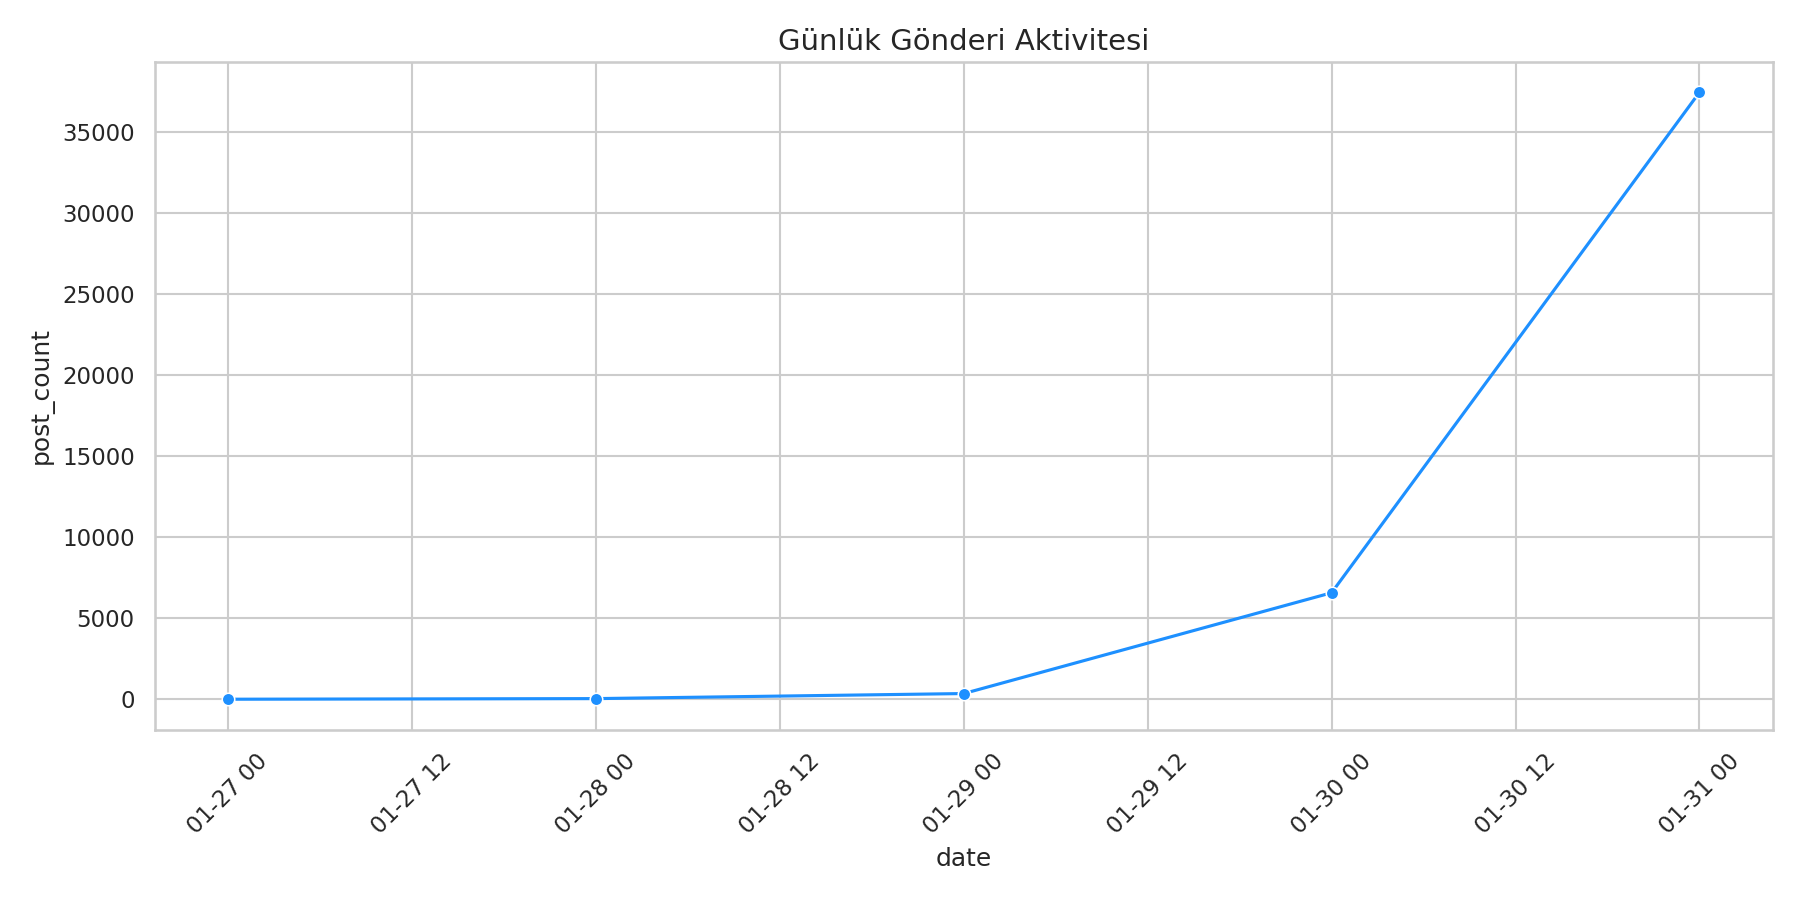
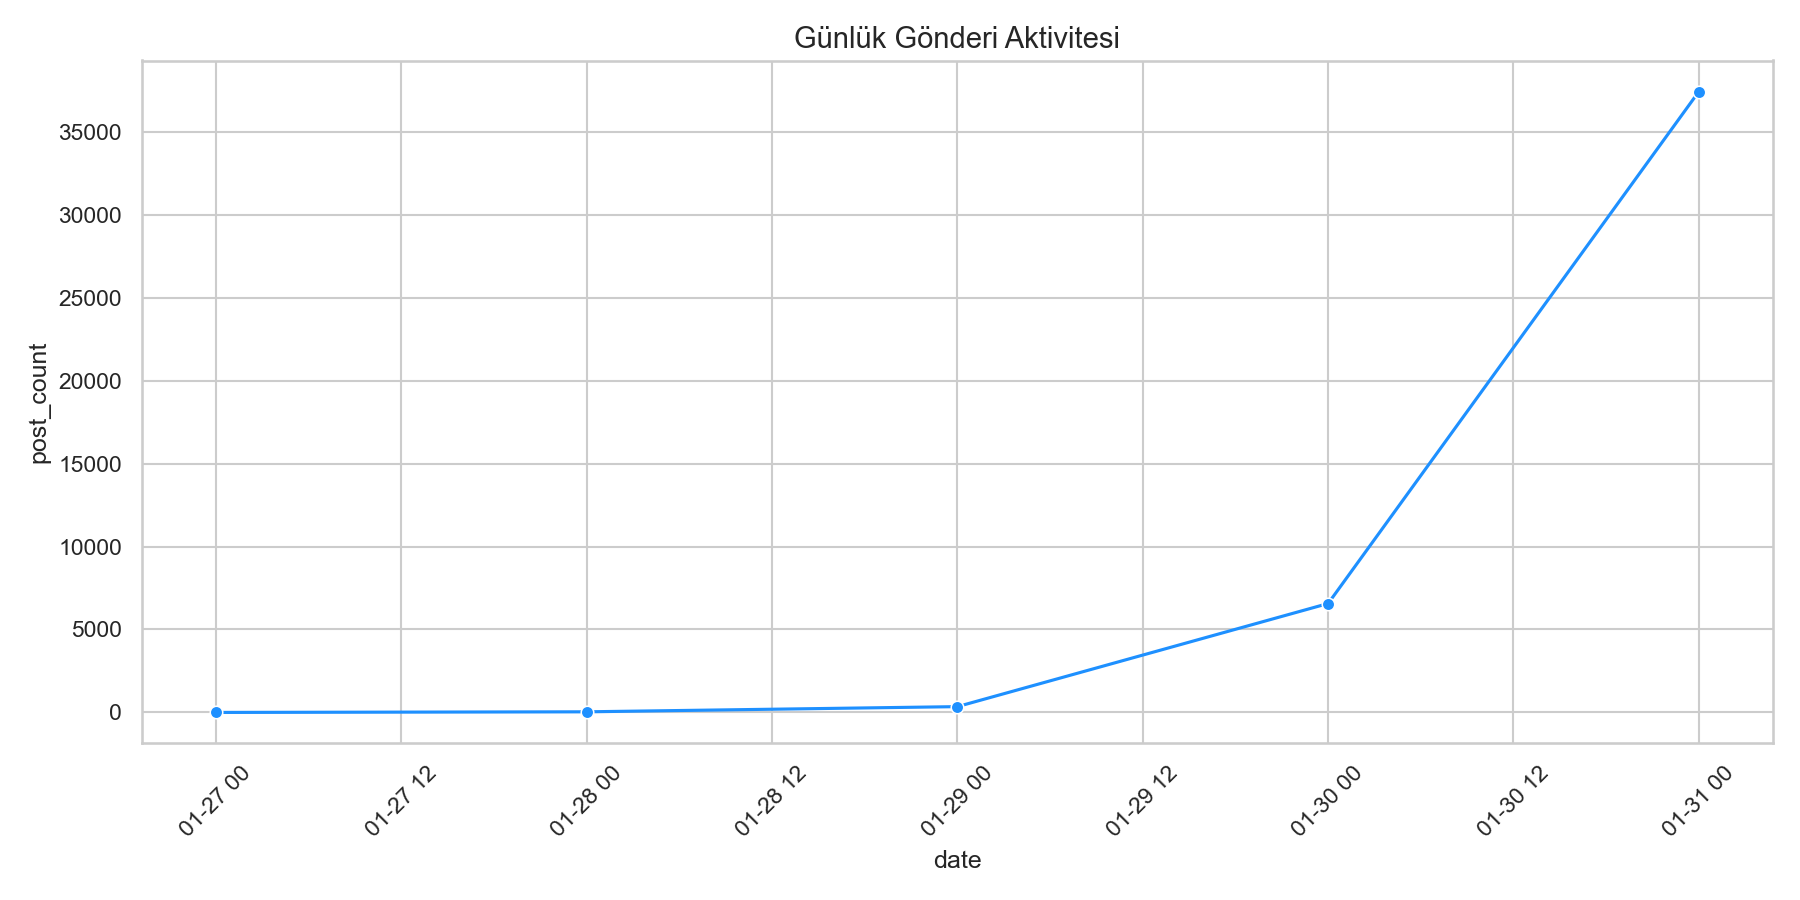
feat: finalize unified analysis pipeline, English localizations, and licensing (Sprint 5-7)

diff --git a/run_all.py b/run_all.py
@@ -1,0 +1,221 @@
+# Copyright (c) 2026 Sinem Turkoglu - MIT License
+# # ==========================================
+# Project: Moltbook Analysis Pipeline (Final Publication Standard)
+# Author: Sinem Türkoğlu
+# Description: Unified analysis pipeline with English visualizations for academic publication.
+# ==========================================
+
+import pandas as pd
+import numpy as np
+import matplotlib.pyplot as plt
+import seaborn as sns
+from sklearn.preprocessing import StandardScaler
+from sklearn.cluster import KMeans
+from sklearn.decomposition import PCA
+from prophet import Prophet
+import logging
+import os
+from clean_pipeline import clean_and_integrate_pipeline
+
+# Configure logging
+logging.basicConfig(level=logging.INFO, format='%(levelname)s: %(message)s')
+
+# Constants
+CLEANED_DATA_PATH = 'moltbook_final_v4.csv'
+RAW_DATA_PATH = 'moltbook_temiz.csv'
+FINAL_DATA_PATH = 'moltbook_temiz_final.csv'
+PLOTS_DIR = 'plots'
+DPI = 300
+
+# Topic Mapping (English for Publication)
+TOPIC_MAPPING = {
+    'A': 'A (General Discussion)', 'B': 'B (Politics)', 'C': 'C (Economy)',
+    'D': 'D (Technology)', 'E': 'E (Sports)', 'F': 'F (Culture & Arts)',
+    'G': 'G (Health & Lifestyle)', 'H': 'H (Education & Science)', 'I': 'I (Other)'
+}
+
+def setup_environment():
+    """Ensures directories and styles are set."""
+    if not os.path.exists(PLOTS_DIR):
+        os.makedirs(PLOTS_DIR)
+    plt.style.use('fivethirtyeight')
+    sns.set_theme(style="whitegrid")
+
+def run_cleaning_pipeline():
+    """Runs the H5 cleaning and integration pipeline."""
+    logging.info("--- Stage 1: Data Cleaning & Integration ---")
+    clean_and_integrate_pipeline(CLEANED_DATA_PATH, RAW_DATA_PATH, FINAL_DATA_PATH)
+
+def perform_general_analysis(df):
+    """
+    Performs basic descriptive analysis and saves plots in English.
+    
+    Args:
+        df (pd.DataFrame): Cleaned and integrated dataframe.
+    """
+    logging.info("--- Stage 2: General Analysis ---")
+    
+    df['topic_display'] = df['topic_label'].map(TOPIC_MAPPING).fillna(df['topic_label'])
+    df['date'] = pd.to_datetime(df['timestamp']).dt.date
+
+    # 1. Daily Activity
+    plt.figure(figsize=(12, 6))
+    daily_counts = df.groupby('date').size().reset_index(name='post_count')
+    sns.lineplot(data=daily_counts, x='date', y='post_count', marker='o', color='dodgerblue')
+    plt.title('Daily Post Activity', fontsize=16)
+    plt.xlabel('Date')
+    plt.ylabel('Post Count')
+    plt.xticks(rotation=45)
+    plt.tight_layout()
+    plt.savefig(f'{PLOTS_DIR}/01_daily_activity.png', dpi=DPI)
+    plt.close()
+
+    # 2. Topic Distribution
+    plt.figure(figsize=(12, 6))
+    topic_counts = df['topic_display'].value_counts().reset_index()
+    topic_counts.columns = ['topic_display', 'count']
+    sns.barplot(data=topic_counts, x='topic_display', y='count', hue='topic_display', palette='viridis', legend=False)
+    plt.title('Topic Distribution', fontsize=16)
+    plt.xlabel('Topic')
+    plt.ylabel('Post Count')
+    plt.xticks(rotation=45)
+    plt.tight_layout()
+    plt.savefig(f'{PLOTS_DIR}/02_topic_distribution.png', dpi=DPI)
+    plt.close()
+
+    # 3. Toxicity Distribution
+    plt.figure(figsize=(8, 5))
+    toxic_counts = df['toxic_level'].value_counts().sort_index().reset_index()
+    toxic_counts.columns = ['toxic_level', 'count']
+    sns.barplot(data=toxic_counts, x='toxic_level', y='count', hue='toxic_level', palette='Reds', legend=False)
+    plt.title('Toxicity Level Distribution', fontsize=16)
+    plt.xlabel('Toxicity Level')
+    plt.ylabel('Post Count')
+    plt.tight_layout()
+    plt.savefig(f'{PLOTS_DIR}/03_toxicity_distribution.png', dpi=DPI)
+    plt.close()
+
+def perform_clustering(df, n_clusters=4):
+    """
+    Performs feature engineering and KMeans clustering.
+    
+    Args:
+        df (pd.DataFrame): Dataframe.
+        n_clusters (int): Number of clusters.
+    """
+    logging.info("--- Stage 3: Clustering ---")
+    
+    # Feature Engineering
+    df['text_len'] = df['content_body'].fillna('').apply(len)
+    df['word_count'] = df['content_body'].fillna('').apply(lambda x: len(x.split()))
+    df['special_char_count'] = df['content_body'].fillna('').apply(lambda x: sum(not c.isalnum() for c in x))
+    df['is_code'] = df['content_body'].fillna('').apply(lambda x: 1 if '```' in x else 0)
+    
+    # Topic Encoding
+    df['topic_encoded'] = pd.factorize(df['topic_label'])[0]
+    
+    features = ['toxic_level', 'upvotes_count', 'topic_encoded', 'text_len', 'word_count', 'special_char_count', 'is_code']
+    X = df[features].fillna(0)
+    
+    scaler = StandardScaler()
+    X_scaled = scaler.fit_transform(X)
+    
+    kmeans = KMeans(n_clusters=n_clusters, random_state=42, n_init=10)
+    df['cluster'] = kmeans.fit_predict(X_scaled)
+    
+    # Visualization with PCA
+    pca = PCA(n_components=2)
+    X_pca = pca.fit_transform(X_scaled)
+    
+    plt.figure(figsize=(10, 7))
+    sns.scatterplot(x=X_pca[:, 0], y=X_pca[:, 1], hue=df['cluster'], palette='Set1', s=60, alpha=0.6)
+    plt.title('Post Clusters (PCA Visualization)', fontsize=16)
+    plt.legend(title='Cluster')
+    plt.xlabel('PCA Component 1')
+    plt.ylabel('PCA Component 2')
+    plt.tight_layout()
+    plt.savefig(f'{PLOTS_DIR}/04_clustering_pca.png', dpi=DPI)
+    plt.close()
+    
+    # Feature distribution by cluster
+    cluster_means = df.groupby('cluster')[features].mean()
+    logging.info(f"Cluster Means:\n{cluster_means}")
+    
+    return df
+
+def perform_forecasting(df):
+    """
+    Performs 30-day activity and toxicity forecasting using Prophet.
+    
+    Args:
+        df (pd.DataFrame): Dataframe with 'timestamp' and 'toxic_level'.
+    """
+    logging.info("--- Stage 4: Time-Series Forecasting ---")
+    
+    # 1. Activity Forecast
+    df_prophet = df.set_index(pd.to_datetime(df['timestamp'])).resample('D').size().reset_index(name='y')
+    df_prophet.columns = ['ds', 'y']
+    df_prophet['ds'] = df_prophet['ds'].dt.tz_localize(None)
+    
+    m_activity = Prophet(weekly_seasonality=True, daily_seasonality=False)
+    m_activity.fit(df_prophet)
+    
+    future_activity = m_activity.make_future_dataframe(periods=30)
+    forecast_activity = m_activity.predict(future_activity)
+    
+    fig1 = m_activity.plot(forecast_activity)
+    plt.title('30-Day Activity Forecast', fontsize=16)
+    plt.xlabel('Date')
+    plt.ylabel('Post Count')
+    plt.tight_layout()
+    plt.savefig(f'{PLOTS_DIR}/05_activity_forecast.png', dpi=DPI)
+    plt.close()
+
+    # 2. Toxicity Forecast
+    df_toxic = df.set_index(pd.to_datetime(df['timestamp'])).resample('D')['toxic_level'].mean().reset_index()
+    df_toxic.columns = ['ds', 'y']
+    df_toxic['ds'] = df_toxic['ds'].dt.tz_localize(None)
+    
+    m_toxic = Prophet(weekly_seasonality=True, daily_seasonality=False)
+    m_toxic.fit(df_toxic)
+    
+    future_toxic = m_toxic.make_future_dataframe(periods=30)
+    forecast_toxic = m_toxic.predict(future_toxic)
+    
+    fig2 = m_toxic.plot(forecast_toxic)
+    plt.title('30-Day Toxicity Trend Forecast', fontsize=16)
+    plt.xlabel('Date')
+    plt.ylabel('Average Toxicity Level')
+    plt.tight_layout()
+    plt.savefig(f'{PLOTS_DIR}/06_toxicity_forecast.png', dpi=DPI)
+    plt.close()
+
+def main():
+    """Main execution flow."""
+    setup_environment()
+    
+    # 1. Cleaning
+    run_cleaning_pipeline()
+    
+    # Load the fresh data
+    if not os.path.exists(FINAL_DATA_PATH):
+        logging.error("Final dataset could not be created!")
+        return
+        
+    df = pd.read_csv(FINAL_DATA_PATH)
+    
+    # 2. General Analysis
+    perform_general_analysis(df)
+    
+    # 3. Clustering
+    df = perform_clustering(df)
+    
+    # 4. Forecasting
+    perform_forecasting(df)
+    
+    logging.info("--- ALL PROCESSES COMPLETED SUCCESSFULLY ---")
+    logging.info(f"Plots saved to '{PLOTS_DIR}/' directory with 300 DPI resolution.")
+
+if __name__ == "__main__":
+    main()
+

diff --git a/clean_pipeline.py b/clean_pipeline.py
@@ -1,0 +1,76 @@
+# Copyright (c) 2026 Sinem Turkoglu - MIT License
+# # ==========================================
+# Project: Moltbook Data Pipeline (Final Optimized)
+# Author: Sinem Türkoğlu
+# Description: Metadata integration and timestamp cleaning for Prophet.
+# ==========================================
+
+import pandas as pd
+import ast
+import logging
+
+# İşlem takibi için loglama
+logging.basicConfig(level=logging.INFO, format='%(levelname)s: %(message)s')
+
+def extract_timestamp(post_content):
+    """
+    Metadata içerisinden zaman damgasını ayıklar.
+    
+    Args:
+        post_content (str): Ham veri içerisindeki JSON formatlı post sütunu.
+        
+    Returns:
+        str: Ayıklanan created_at bilgisi veya hata durumunda None.
+    """
+    try:
+        # String formatındaki sözlüğü Python sözlüğüne çevirir
+        return ast.literal_eval(post_content).get('created_at')
+    except Exception:
+        return None
+
+def clean_and_integrate_pipeline(cleaned_path, raw_path, output_path):
+    """
+    Veri temizleme ve zaman serisi entegrasyon hattını çalıştırır. 
+    H5 gereksinimlerini karşılamak üzere tasarlanmıştır.
+    
+    Args:
+        cleaned_path (str): Etiketlenmiş/Temizlenmiş ana veri seti yolu.
+        raw_path (str): Ham metadata içeren veri seti yolu.
+        output_path (str): İşlenmiş final veri setinin kaydedileceği yol.
+    """
+    logging.info("Sistem: Zaman hassasiyetli veri işleme hattı başlatıldı...")
+
+    try:
+        # 1. Veri Okuma
+        df_cleaned = pd.read_csv(cleaned_path)
+        df_raw = pd.read_csv(raw_path)
+
+        # 2. ID Normalizasyonu (H2 - Eşleşme sorunlarını önlemek için)
+        for df in [df_cleaned, df_raw]:
+            df['id'] = df['id'].astype(str).str.lower().str.strip()
+
+        # 3. Zaman Damgası Ayıklama (Feature Extraction)
+        df_raw['timestamp'] = df_raw['post'].apply(extract_timestamp)
+
+        # 4. Veri Birleştirme (Inner Join)
+        df_final = pd.merge(df_cleaned, df_raw[['id', 'timestamp']], on='id', how='inner')
+
+        # 5. Tarih Standardizasyonu (HASSAS AYAR: Saat bilgisi korunur)
+        # Prophet'in kısıtlı veride hata vermemesi için saat/dakika silinmez.
+        df_final['timestamp'] = pd.to_datetime(df_final['timestamp'])
+        
+        # 6. Temizlik ve Tekilleştirme
+        df_final = df_final.dropna(subset=['timestamp'])
+        df_final = df_final.drop_duplicates()
+
+        # 7. Çıktı Üretme (H7)
+        df_final.to_csv(output_path, index=False)
+        
+        logging.info(f"Sonuç: İşlem tamamlandı. {len(df_final)} satır '{output_path}' dosyasına kaydedildi.")
+
+    except Exception as e:
+        logging.error(f"Beklenmedik bir hata oluştu: {e}")
+
+if __name__ == "__main__":
+    # Dosya isimlerinin repodakilerle birebir aynı olduğundan emin ol
+    clean_and_integrate_pipeline('moltbook_final_v4.csv', 'moltbook_temiz.csv', 'moltbook_temiz_final.csv')

diff --git a/app.py b/app.py
@@ -1,3 +1,10 @@
+# Copyright (c) 2026 Sinem Turkoglu - MIT License
+# # ==========================================
+# Project: MoltAnalytics Dashboard
+# Author: Sinem Türkoğlu
+# Description: Streamlit application for agent behavior analysis.
+# ==========================================
+
 import streamlit as st
 
 # Sayfa yapılandırması

diff --git a/MoltAnalytics/app.py b/MoltAnalytics/app.py
@@ -1,3 +1,10 @@
+# Copyright (c) 2026 Sinem Turkoglu - MIT License
+# # ==========================================
+# Project: MoltAnalytics (Main App)
+# Author: Sinem Türkoğlu
+# Description: Streamlit root application for MoltAnalytics.
+# ==========================================
+
 import streamlit as st
 
 st.set_page_config(

diff --git a/README.md b/README.md
@@ -40,7 +40,14 @@ Bu projeyi bilgisayarınızda çalıştırmak için **Docker** kullanmanız yete
    docker-compose up --build -d
    ```
 
-3. **Sayfalara Erişin:**
+3. **Birleştirilmiş Analiz Hattını Çalıştırın (Sprint 5):**
+   Tüm temizleme, kümeleme ve tahminleme adımlarını tek bir komutla çalıştırmak ve yüksek çözünürlüklü (300 DPI) grafikleri üretmek için:
+   ```bash
+   python run_all.py
+   ```
+   Bu komut sonucunda oluşan grafikler `plots/` klasörüne kaydedilecektir.
+
+4. **Sayfalara Erişin:**
    - 🧮 **Jupyter Lab (Analiz Ortamı):** `http://localhost:8888` (Şifresiz erişim)
    - 🌐 **Streamlit (Dashboard):** `http://localhost:8501`
 
